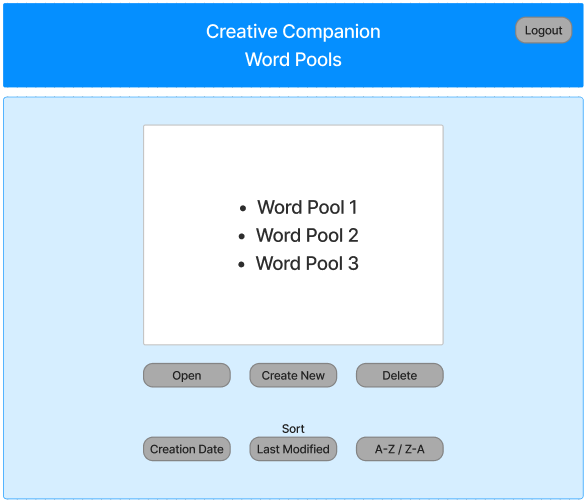
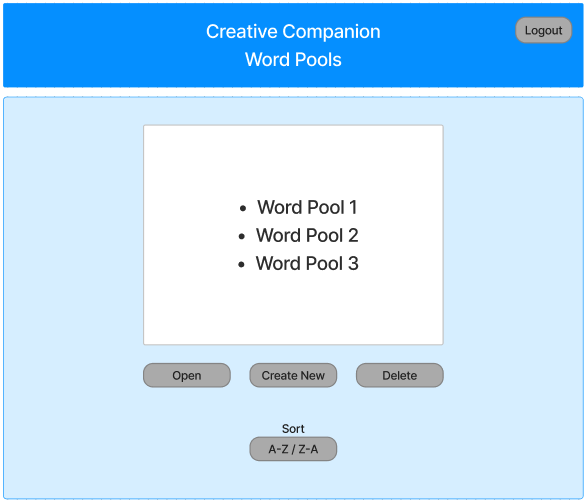
updated design document

diff --git a/resources/design-document.md b/resources/design-document.md
@@ -4,7 +4,7 @@
 
 ## 1. Problem Statement
 
-Develop a software program that populates a dynamic Word Pool by interfacing with an external thesaurus and rhyming dictionary API. This word pool should then allow users to seamlessly drag and drop these words into a target field, facilitating the creation of original song lyrics, poetry, or prose. The software should also support the organization, rearrangement, and editing of these text elements. The content can be saved as individual Projects and Word Pools to a database, ensuring that users can retrieve and further develop their work at any time.
+Create a software program that seamlessly integrates with external thesaurus and rhyming dictionary APIs, empowering writers, poets, and lyricists to construct dynamic "Word Pools." These Word Pools facilitate the creation of song lyrics, poetry, or prose within dedicated workspaces. Each user's creative work is efficiently managed as individual "Projects," where they can organize, edit, and securely store their content for easy retrieval and further development. This versatile solution serves as an essential tool for artists, enabling creative expression and streamlined content management.
 
 ## 2. Top Questions to Resolve in Review
 
@@ -19,9 +19,9 @@ Develop a software program that populates a dynamic Word Pool by interfacing wit
 
 ## 3. Use Cases
 
-###### Project
+###### Projects
 
-U1. As a CC customer, I want to be able to create a personal project
+U1. As a CC customer, I want to be able to create a personal project that consists of a project wordpool and a project workspace
 
 U2. As a CC customer, I want to be able to delete a personal project
 
@@ -29,51 +29,39 @@ U3. As a CC customer, I want to be able to change the name of a project
 
 U4. As a CC customer, I want to be able to view all my projects
 
-U5. As a CC customer, I want to be able to sort the projects by date created
+U7. As a CC customer, I want to be able to sort the projects by projectName (A-Z or Z-A)
 
-U6. As a CC customer, I want to be able to sort the projects by date last modified
+U8. As a CC customer, I want to be able to open / import a selected project (which includes the project wordpool and workspace contents) from the projects list to edit
 
-U7. As a CC customer, I want to be able to sort the projects by A-Z or Z-A
+U9. As a CC customer, I want to be able to update / save changes (to the project wordpool and workspace) as a project to the database
 
-U8. As a CC customer, I want to be able to open / import a selected project from the projects list to edit
+###### WordPools
 
-U9. As a CC customer, I want to be able to update / save changes to a project
+U10. As a CC customer, I want to be able to create an independent wordpool 
 
-###### WordPool
+U11. As a CC customer, I want to be able to delete an independent wordpool
 
-U10. As a CC customer, I want to be able to create a personal wordPool
+U12. As a CC customer, I want to be able to change the name of an independent wordpool
 
-U11. As a CC customer, I want to be able to delete a personal wordPool
+U13. As a CC customer, I want to be able to view all my independent wordpools
 
-U12. As a CC customer, I want to be able to change the name of a wordPool
+U16. As a CC customer, I want to be able to sort the independent wordpools by A-Z or Z-A
 
-U13. As a CC customer, I want to be able to view all my wordPools
+U17. As a CC customer, I want to be able to open / import a selected wordpool from the independent wordpools list into a project wordpool to edit
 
-U14. As a CC customer, I want to be able to sort the wordPools by date created
+U18. As a CC customer, I want to be able to update / save changes to an independent wordpool
 
-U15. As a CC customer, I want to be able to sort the wordPools by date last modified
+###### Thesaurus / Rhyming Dictionary Sources
 
-U16. As a CC customer, I want to be able to sort the wordPools by A-Z or Z-A
+U19. As a CC customer, I want to be able to query a Thesaurus / Rhyming Dictionary API to populate a project wordpool field with text in my project
 
-U17. As a CC customer, I want to be able to open / import a selected wordPool from the wordPool list to edit
+U20. As a CC customer, I want to be able to query a Thesaurus / Rhyming Dictionary API to populate a field with text in an independent wordpool
 
-U18. As a CC customer, I want to be able to update / save changes to a wordPool
+###### Drag and Drop 
 
-###### API Queries
+U20. As a CC customer, I want to be able to drag text from the project wordpool field and drop it in an editable workspace inside the chosen project
 
-U19. As a CC customer, I want to be able to query a Thesaurus / Rhyming Dictionary API to populate a word pool field with text in my project
-
-U20. As a CC customer, I want to be able to drag text from the word pool field and drop it in an editable work space (target field)
-
-U21. As a CC customer, I want to be able to manually drag text from within the work space and drop it in a different location within the work space itself (target field)
-
-U22. As a CC customer, I want to be able to sort words in the word pool - Alphabetically
-
-U23. As a CC customer, I want to be able to sort words in the word pool - Randomly
-
-U24. As a CC customer, I want to be able to sort words in the work space - Alphabetically
-
-U25. As a CC customer, I want to be able to sort words in the work space - Randomly
+U21. As a CC customer, I want to be able to manually drag text from within the project workspace and drop it in a different location within the same project workspace itself
 
 Stretch goals
 
@@ -91,16 +79,32 @@ S6. As a CC customer, I want to be able to search projects containing a certain 
 
 S7. As a CC customer, I want to be able to use an LLM or existing Java libraries to populate the word pool
 
-S8. As a CC customer, I want to be able to have a display name separate from my UserId
+S8. As a CC customer, I want to be able to have a display name separate from my userId
+
+U5. As a CC customer, I want to be able to sort the projects by date created
+
+U6. As a CC customer, I want to be able to sort the projects by date last modified
+
+U14. As a CC customer, I want to be able to sort the wordpools by date created
+
+U15. As a CC customer, I want to be able to sort the wordpools by date last modified
+
+U22. As a CC customer, I want to be able to sort words in the word pool - Alphabetically
+
+U23. As a CC customer, I want to be able to sort words in the word pool - Randomly
+
+U24. As a CC customer, I want to be able to sort words in the workspace - Alphabetically
+
+U25. As a CC customer, I want to be able to sort words in the workspace - Randomly
 
 ## 4. Project Scope
 
 ### 4.1. In Scope
 
-* Create, delete, retrieve, sort and edit projects and word pools
-* Query external APIs to populate word pool
-* Drag and drop text in the word pool and work space
-* Sorting text in the word pool and work space
+* Create, delete, retrieve, sort and edit projects
+* Create, delete, retrieve, sort and edit independent wordpools
+* Query external APIs to populate project wordpools and independent wordpools
+* Drag and drop text from the project wordpool to project workspace
 
 ### 4.2. Out of Scope
 
@@ -110,12 +114,13 @@ S8. As a CC customer, I want to be able to have a display name separate from my 
 * Searching projects for a certain word or phrase
 * Implement an LLM or existing Java libraries to populate the word pool
 * Update a display name separate from UserId
+* Sorting text in the wordpool and workspace
 
 # 5. Proposed Architecture Overview
 
 ## Project Phase: Minimum Lovable Product (MLP) Delivery
 ### Description:
-In this initial phase, our goal is to deliver the Minimum Lovable Product (MLP) for our software project. The MLP will encompass core functionalities, including project creation, retrieval, and updating. Additionally, it will involve fetching content from external APIs to populate a word pool and workspace, allowing customization to meet specific user needs.
+In this initial phase, our goal is to deliver the Minimum Lovable Product (MLP) for our software project. The MLP will encompass core functionalities, including project creation, deletion, retrieval, and updating. Additionally, it will involve fetching content from external APIs to populate a word pool and workspace, allowing customization to meet specific user needs.
 
 ### Key Components:
 
@@ -159,7 +164,7 @@ The endpoints defined in section 6.2 are designed to facilitate various project-
 
 ###### Customization:
 
-* Users will have the ability to customize and modify the content within their projects and word pools to suit their specific requirements.
+* Users will have the ability to customize and modify the content within their projects and wordpools to suit their specific requirements.
 
 
 # 6. API
@@ -172,80 +177,78 @@ The endpoints defined in section 6.2 are designed to facilitate various project-
 String userId;
 String projectId;
 String projectName;
-Date creationDate;
-Date lastModified;
-List<String> wordPool;
+List<String> wordpool;
 List<String> workspace;
 ```
 ```
 // WordpoolModel
 
 String userId;
-String wordPoolId;
-String wordPoolName;
-Date creationDate;
-Date lastModified;
-List<String> wordPool;
+String wordpoolId;
+String wordpoolName;
+List<String> wordpool;
 
 ```
 
 
 ## 6.2. Endpoints
 
-### Project
+### Projects
 
-* Accepts POST requests to /project
-###### Accepts a projectName and userId and returns the corresponding ProjectModel including a unique projectId assigned by the Project Service.
+* Accepts POST requests to /projects
+###### Accepts a projectName and returns the corresponding ProjectModel including a unique projectId assigned by the Project Service.
 
-* Accepts DELETE requests to /project
+* Accepts DELETE requests to /projects/{projectid}
 ###### Accepts a userId and a projectId and removes a project from user’s projects.
 
-* Accepts GET requests to /project/{projectId}
+* Accepts GET requests to /projects/{projectid}
 ###### Accepts a userId and a projectId and returns the corresponding ProjectModel.
 
-* Accepts PUT requests to /project/{projectId}
+* Accepts GET requests to /projects
+###### Accepts a userId and returns a list of corresponding ProjectModels.
+
+* Accepts PUT requests to /projects/{projectid}
 ###### Accepts data to update a project including an updated projectName.
 
 
-### WordPool
+### Wordpools
 
-* Accepts POST requests to /wordPool
-###### Accepts a wordPoolName and userId and returns the corresponding WordPoolModel including a unique wordPoolId assigned by the WordPool Service.
+* Accepts POST requests to /wordpools
+###### Accepts a wordpoolName and returns the corresponding WordpoolModel including a unique wordpoolId assigned by the Wordpool Service.
 
-* Accepts DELETE requests to /wordPool
-###### Accepts a userId and a wordPoolId and removes a wordPool from user’s wordPools.
+* Accepts DELETE requests to /wordpools/{wordpoolid}
+###### Accepts a userId and a wordpoolId and removes a wordpool from user’s wordpools.
 
-* Accepts GET requests to /wordPool/{wordPoolId}
-###### Accepts a userId and a wordPoolId and returns the corresponding WordPoolModel.
+* Accepts GET requests to /wordpools/{wordpoolid}
+###### Accepts a userId and a wordpoolId and returns the corresponding WordpoolModel.
 
-* Accepts PUT requests to /wordPool/{wordPoolId}
-###### Accepts data to update a wordPool including an updated wordPoolName.
+* Accepts GET requests to /wordpools
+###### Accepts a userId and returns a list of corresponding WordpoolModels.
+
+* Accepts PUT requests to /wordpools/{wordpoolid}
+###### Accepts data to update a wordpool including an updated wordpoolName.
 
 
 
 # 7. Tables
 
-### 7.1. `Project`
+### 7.1. `Projects`
 
 ```
-userId // partition key, string
-projectId // sort key, string
-projectName // string
-creationDate // Date (string?)
-lastModified // Date (string?)
-wordPool // List<String> (JSON string?)
-workspace // List<String> (JSON string?)
+userid // partition key, string
+projectid // sort key, string
+projectname // string
+projectwordpool // List
+workspace // List
 ```
 
-### 7.2. `WordPool`
+### 7.2. `WordPools`
 
 ```
-userId // partition key, string
-wordPoolId // sort key, string
-wordPoolName // string
-creationDate // Date (string?)
-lastModified // Date (string?)
-wordPool // List<String> (JSON string?)
+userid // partition key, string
+wordpoolid // sort key, string
+wordpoolname // string
+wordpool // List
 ```
 
 # 8. Pages
